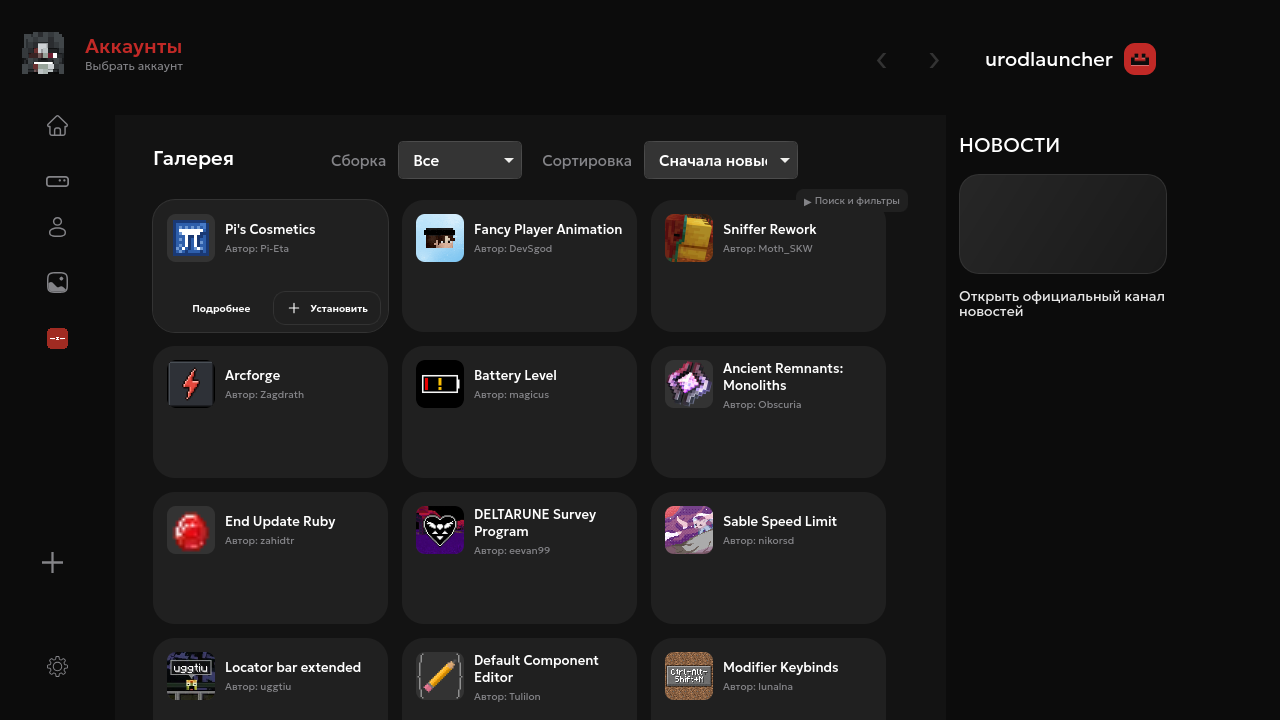
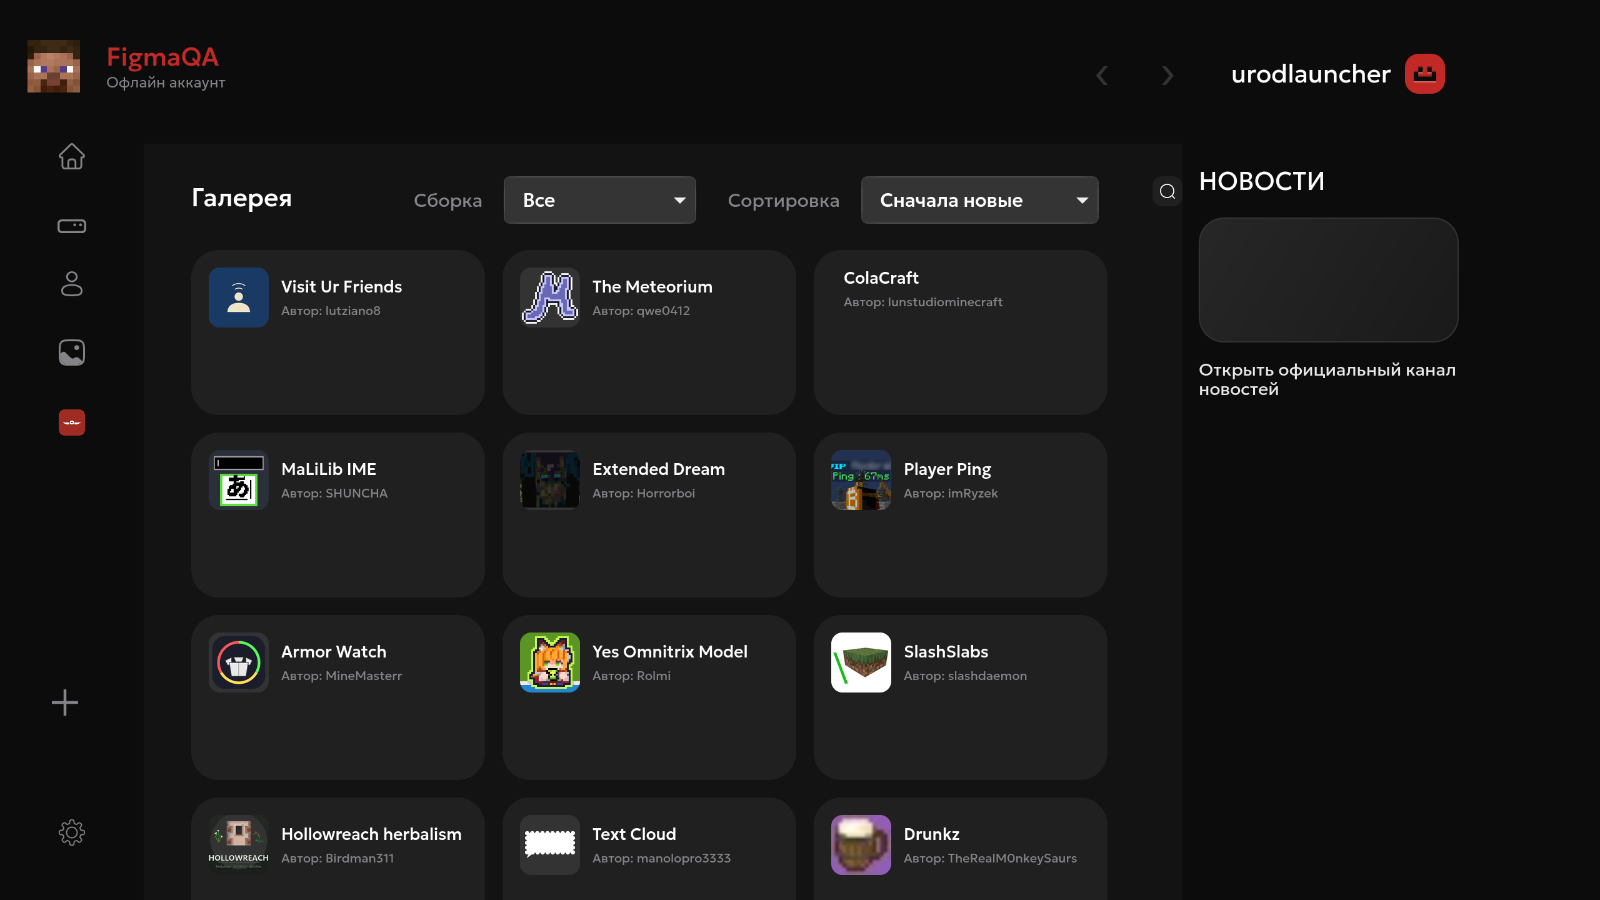
fix(gallery): keep filters clear of sort across window sizes

diff --git a/apps/app-frontend/src/figma.css b/apps/app-frontend/src/figma.css
@@ -2239,7 +2239,7 @@ body {
 	top: 26px;
 	display: flex;
 	align-items: center;
-	gap: 12px;
+	gap: 17px;
 	white-space: nowrap;
 }
 .figma-gallery-controls label {
@@ -2249,7 +2249,7 @@ body {
 		sans-serif;
 }
 .figma-gallery-controls select {
-	width: 160px;
+	width: 154px;
 	height: 38px;
 	min-height: 38px;
 	padding: 0 10px;
@@ -2265,26 +2265,33 @@ body {
 	margin-left: 8px;
 }
 .figma-gallery-controls #gallery-sort {
-	width: 154px;
+	width: 190px;
 }
 .gallery-advanced {
 	position: absolute;
-	right: 38px;
+	right: 0;
 	top: 26px;
 	z-index: 4;
-	width: min(755px, calc(100% - 76px));
+	width: min(755px, 100%);
 	color: var(--figma-text);
 }
 .gallery-advanced > summary {
 	position: absolute;
 	right: 0;
 	top: 0;
-	padding: 5px 8px;
+	display: grid;
+	place-items: center;
+	width: 24px;
+	height: 24px;
+	padding: 0;
 	border-radius: 8px;
 	background: var(--figma-control);
 	color: var(--figma-muted);
-	font-size: 10px;
+	list-style: none;
 	cursor: pointer;
+}
+.gallery-advanced > summary::-webkit-details-marker {
+	display: none;
 }
 .gallery-advanced[open] {
 	padding: 34px 16px 16px;
@@ -2298,6 +2305,11 @@ body {
 }
 .gallery-advanced .search-filters {
 	margin: 0;
+}
+@media (min-width: 1400px) {
+	.gallery-advanced {
+		right: 16px;
+	}
 }
 .content-page .search-result-heading {
 	position: absolute;
@@ -2456,6 +2468,8 @@ body {
 	}
 	.gallery-advanced {
 		top: 74px;
+		right: 16px;
+		width: min(755px, calc(100% - 16px));
 	}
 }
 @media (max-width: 650px) {

diff --git a/apps/app-frontend/src/components/ContentPage.vue b/apps/app-frontend/src/components/ContentPage.vue
@@ -413,7 +413,9 @@ onUnmounted(() => {
 				</select>
 			</div>
 			<details class="gallery-advanced">
-				<summary aria-label="Поиск и фильтры" title="Поиск и фильтры">Фильтры</summary>
+				<summary aria-label="Поиск и фильтры" title="Поиск и фильтры">
+					<img src="/figma/02d89.svg" width="12" height="12" alt="" />
+				</summary>
 				<div class="content-tabs" role="tablist" aria-label="Тип контента">
 					<button
 						role="tab"

diff --git a/docs/FIGMA_IMPLEMENTATION_MAP.md b/docs/FIGMA_IMPLEMENTATION_MAP.md
@@ -7,7 +7,7 @@ The page metadata lists 23 top-level frames: 16 settings windows at 837×470, fi
 | Figma node | Screen | Vue owner | CSS and assets | Behavior | State |
 | --- | --- | --- | --- | --- | --- |
 | `3:1152` | Library, 1280×720 | `AppNavbar.vue`, `LibraryPage.vue` | `figma.css`, `public/figma/*` | Real local instances, search, sort, create, import, select, install, play/stop | Shell and card geometry transferred; Tauri screenshot compared; empty real library differs from Figma's example cards |
-| `3:1094` | Gallery, 1280×720 | `AppNavbar.vue`, `ContentPage.vue` | `figma.css`, exported SVGs | Live Modrinth catalog, target instance, filter, search, install | Main geometry transferred; Tauri screenshot captured; actual projects differ from placeholder cards |
+| `3:1094` | Gallery, 1280×720 | `AppNavbar.vue`, `ContentPage.vue` | `figma.css`, original SVGs including search control | Live Modrinth catalog, target instance, filter, search, install | Native comparison 5.46/255 whole-frame mean RGB error; actual projects and account/news text differ from Figma placeholders |
 | `3:713` | Pack content, 1280×720 | `LibraryPage.vue`, `App.vue` | `figma.css`, original tab, item, toggle and action SVGs | Real installed mods, shaders and resource packs; search, category filter, toggle, update, remove, play, settings, live game log and operation messages | Native Tauri frame compared, 4.06/255 mean RGB error before live log data; latest game log and compact journal drawer also captured |
 | `3:888` | Mod browser for a selected pack, 1280×720 | `ContentPage.vue` | `figma.css`, original search and folder SVGs, live Modrinth icons | Real Modrinth search, sort, compatible install into the selected pack; mod, shader and resource pack tabs | Native Tauri frame compared, 4.38/255 mean RGB error; demo catalog content differs from live results |
 | `3:1012` | Skins, 1280×720 | `SkinsPage.vue`, `SkinPreview.vue` | `figma.css`, exported add icon | Real local PNG library, file picker and drop target, draggable 3D viewer; full-body card thumbnails rendered from each validated texture | Native comparison 9.86/255 mean RGB error; reference shows eight sample skins, isolated QA has one Steve texture and a different account |
@@ -52,11 +52,15 @@ The files above live under `apps/app-frontend/public/figma` unless another direc
 
 The [library app capture](screenshots/figma-rc/library-1280x720.png) was taken from the running Tauri window at 1280×720. Compare it with the [Figma export](figma-reference/library-3-1152.png), [50% overlay](figma-reference/library-overlay.png), and [contrast-enhanced difference](figma-reference/library-diff.png). Mean absolute RGB error is 1.69/255 for the top 115 px, 2.20/255 for the left rail, and 1.73/255 for the news rail. The workspace error is 12.52/255 because the Figma frame contains ten illustrative cards while the isolated local data directory contains no installed packs. These numbers are measurements, not a claim of finished pixel matching.
 
+The [gallery Figma frame](figma-reference/frame-3-1094.png) and [native Tauri capture](screenshots/figma-rc/gallery-1280x720.png) have a [50% overlay](figma-reference/gallery-overlay.png) and [contrast-enhanced difference](figma-reference/gallery-diff.png). Normalized whole-frame mean absolute RGB error is 5.46/255. Card bounds and control x positions align; current Modrinth results include real names, images and authors where Figma shows blank illustrative cards. The native account and news text also differ.
+
 Additional real Tauri captures: [gallery](screenshots/figma-rc/gallery-1280x720.png), [skins](screenshots/figma-rc/skins-1280x720.png), [add skin](screenshots/figma-rc/add-skin-1280x720.png), and [edit skin](screenshots/figma-rc/edit-skin-1280x720.png). The skin images use a known sample PNG in an isolated test data directory. They are not screenshots from Figma. The updated [skin reference](figma-reference/frame-3-1012.png), [50% overlay](figma-reference/skins-overlay.png), and [contrast-enhanced difference](figma-reference/skins-diff.png) were compared after full-body thumbnails were added. Whole-frame mean absolute RGB error is 9.86/255; most remaining content difference comes from the illustrative eight skins in Figma versus one QA skin and the different account/news text. At the standard size, the card and add-tile edges align closely. The [860×620 native capture](screenshots/figma-rc/skins-860x620-physical-125pct.png) retains the picker, preview, edit control and navigation without document horizontal overflow. Dialog and control states still need deeper comparison.
 
 The 500×489 [add-skin reference](figma-reference/frame-3-1297.png) and [native crop](screenshots/figma-rc/add-skin-500x489.png) have an [overlay](figma-reference/add-skin-overlay.png) and [difference image](figma-reference/add-skin-diff.png); mean RGB error is 8.02/255. The [edit-skin reference](figma-reference/frame-3-1259.png) and [native crop](screenshots/figma-rc/edit-skin-500x489.png) have an [overlay](figma-reference/edit-skin-overlay.png) and [difference image](figma-reference/edit-skin-diff.png); error is 9.01/255. The native images use a saved Steve test texture while Figma displays the owner's illustrated texture. Dialog bounds, buttons and the character viewport have been aligned; the actual character pixels necessarily differ. Both dialogs now use the original Figma control icons.
 
 At 150% output scale, [skins](screenshots/figma-rc/skins-860x620-150pct.png) and [resource settings](screenshots/figma-rc/settings-resources-860x620-150pct.png) were inspected in a real 860×620 CSS pixel Tauri window. The document had no horizontal overflow and the settings close control remained visible. The compositor was returned to its original 125% scale after capture.
+
+The responsive check at 1240×820 captured the [library](screenshots/figma-rc/library-1240x820-physical-125pct.png), [gallery](screenshots/figma-rc/gallery-1240x820-physical-125pct.png), [skins](screenshots/figma-rc/skins-1240x820-physical-125pct.png), and [global settings](screenshots/figma-rc/settings-global-1240x820-physical-125pct.png). Figma `3:1094` specifies gallery control x positions 331, 403, 582 and 689 CSS px; the native 1280×720 layout now measures 331, 403.2, 582.2 and 689.1. The sort selector width is 190 CSS px and its full label is visible. A compact original Figma search icon opens the extra filters with a 3 CSS px gap after Sort at 1240. It stays within the [860×620 gallery](screenshots/figma-rc/gallery-860x620.png) and [fullscreen gallery](screenshots/figma-rc/gallery-fullscreen-physical-125pct.png). The filter panel opens at 860×620 with its query and selectors visible. These are responsive checks, not Figma reference sizes.
 
 The [pack content reference](figma-reference/frame-3-713.png) and [real Tauri capture](screenshots/figma-rc/pack-content-physical-125pct.png) have a [50% overlay](figma-reference/pack-content-overlay.png) and [difference image](figma-reference/pack-content-diff.png). The normalized mean absolute RGB error is 4.06/255 for that pre-log capture. The content panel begins at x=115 and the first installed item at y=226 in the 1280×720 CSS viewport. The real test pack contains Fabric API, one shader and one resource pack, while Figma shows illustrative content. The [live game log capture](screenshots/figma-rc/pack-content-game-log-1280x720.png) shows actual Fabric/Minecraft output from a native game session, converted from Log4j XML to readable lines. Search and severity filters operate on the latest 32 KiB and active launcher operations. At 860×620 the journal remains accessible through a [compact drawer](screenshots/figma-rc/pack-content-game-log-860x620.png). These later captures have not been scored against the static Figma sample because their real log data differs.
 

diff --git a/docs/TESTING.md b/docs/TESTING.md
@@ -51,8 +51,10 @@ Date: 2026-10-19. Branch: `release/1.0.0-figma-stable`. Results describe only ch
 | Additional global settings frames | Native captures for `3:339`, `3:367`, and `3:402` were compared with the corresponding Figma screenshots; mean absolute RGB errors were 2.77, 4.66 and 3.57/255. Input fields are disabled, so visual checks do not count as functional support. |
 | 860×620 native resize | Pass for library, gallery, skins, selected-pack browser and resource settings: no document horizontal overflow; resource form and close button remain visible. Other settings subframes remain to be checked. |
 | 150% HiDPI at 860×620 | Pass for skins and global resource settings on the internal display after temporarily changing Niri output scale from 1.25 to 1.5. Native [skin](screenshots/figma-rc/skins-860x620-150pct.png) and [resource](screenshots/figma-rc/settings-resources-860x620-150pct.png) captures show the main controls; DOM viewport and document widths were both 860 CSS px, and the settings close control remained visible. The output scale was restored to 1.25 afterward. Other routes at 150% remain unverified. |
+| 1240×820 and maximized/fullscreen | Native 1240×820 captures for [library](screenshots/figma-rc/library-1240x820-physical-125pct.png), [gallery](screenshots/figma-rc/gallery-1240x820-physical-125pct.png), [skins](screenshots/figma-rc/skins-1240x820-physical-125pct.png), and [global settings](screenshots/figma-rc/settings-global-1240x820-physical-125pct.png) were inspected; all reported matching document and viewport widths. The gallery sort selector now occupies the 190 CSS px indicated by Figma and shows its full text; its compact Figma search control has 3 CSS px clearance at 1240. At 860×620 that control stayed 16 CSS px from the right edge and its expanded search/filter panel fit within the viewport. [Fullscreen gallery](screenshots/figma-rc/gallery-fullscreen-physical-125pct.png) was tested at 1536×864 CSS px with no document overflow; maximized gallery at 1536×824 also showed the control inside the work area. Other routes in fullscreen remain unverified. |
+| Gallery search and filters | In the native app the original Figma search icon opened the extra filter panel. A live Modrinth search for `sodium`, Minecraft `1.21.1`, Fabric returned 20 rendered project cards with no error; the route encoded the query, version and loader. This is one API sample, not an exhaustive compatibility test. |
 | 1240×820 at 125% monitor scale | DOM viewport had no document overflow; full visual inspection remains open because the host panel clipped the bottom of the native window |
 
-The [Figma comparison map](FIGMA_IMPLEMENTATION_MAP.md#rendered-comparison) links exported references, native captures, and difference images. Mean absolute RGB errors after normalizing captures are 4.18/255 for global settings, 3.37/255 for pack main, 4.06/255 for pack content, 4.38/255 for the selected-pack Modrinth browser, 3.89/255 for resource settings, and 2.91/255 for Java locations. These measurements include real data differences and do not certify pixel matching. Controls in later settings frames remain incomplete.
+The [Figma comparison map](FIGMA_IMPLEMENTATION_MAP.md#rendered-comparison) links exported references, native captures, and difference images. Mean absolute RGB errors after normalizing captures are 5.46/255 for the main gallery, 4.18/255 for global settings, 3.37/255 for pack main, 4.06/255 for pack content, 4.38/255 for the selected-pack Modrinth browser, 3.89/255 for resource settings, and 2.91/255 for Java locations. These measurements include real data differences and do not certify pixel matching. Controls in later settings frames remain incomplete.
 
-Unperformed checks are **not** passes: Windows installer execution, Debian package removal and installed-app launch, Arch package launch after normal system installation, complete 1240×820 and 125% visual inspection, 150% HiDPI inspection for routes beyond skins and resource settings, real Microsoft/Ely.by login, authenticated skin upload, and live game tests across additional Minecraft versions and hardware.
+Unperformed checks are **not** passes: Windows installer execution, Debian package removal and installed-app launch, Arch package launch after normal system installation, 1240×820 and fullscreen inspection for routes beyond those named above, 150% HiDPI inspection for routes beyond skins and resource settings, real Microsoft/Ely.by login, authenticated skin upload, and live game tests across additional Minecraft versions and hardware.

diff --git a/docs/CHANGELOG.md b/docs/CHANGELOG.md
@@ -8,6 +8,7 @@
 - Replaced skin-card head crops with full-body previews rendered from each saved PNG using one reusable WebGL viewer and cached across unchanged library updates, matched the main preview scale against Figma `3:1012`, and made the add tile accept dropped PNG files.
 - Enabled in-place PNG replacement in the Figma edit-skin dialog. The native command validates the new texture, stages the replacement, preserves the skin id, rolls back on catalog-write failure, and clears account selection when the appearance changes. Original Figma dialog icons replace text symbols.
 - Refreshed the account preview when an active local skin is deleted and kept the deletion result visible when the library becomes empty.
+- Restored the exact Figma gallery control positions and 190 px sort selector, and used the original Figma search icon for extra filters. The control no longer overlaps Sort at 1240×820 or clips against the scroll rail at narrow and maximized widths.
 - Transferred the pack content manager and selected-pack Modrinth browser from Figma frames `3:713` and `3:888`, retaining live installed content and real catalog data. Added shader and resource pack search, compatibility checks and installation through the existing backend.
 - Fixed direct links to installed shaders and resource packs so their Modrinth type is recovered from project metadata even when the URL has no type parameter.
 - Added Figma-based global and pack settings windows. Global RAM, per-pack RAM, renaming and duplication were exercised in the native app. Unsupported sync, repair, fullscreen and command controls are explicitly unavailable.
